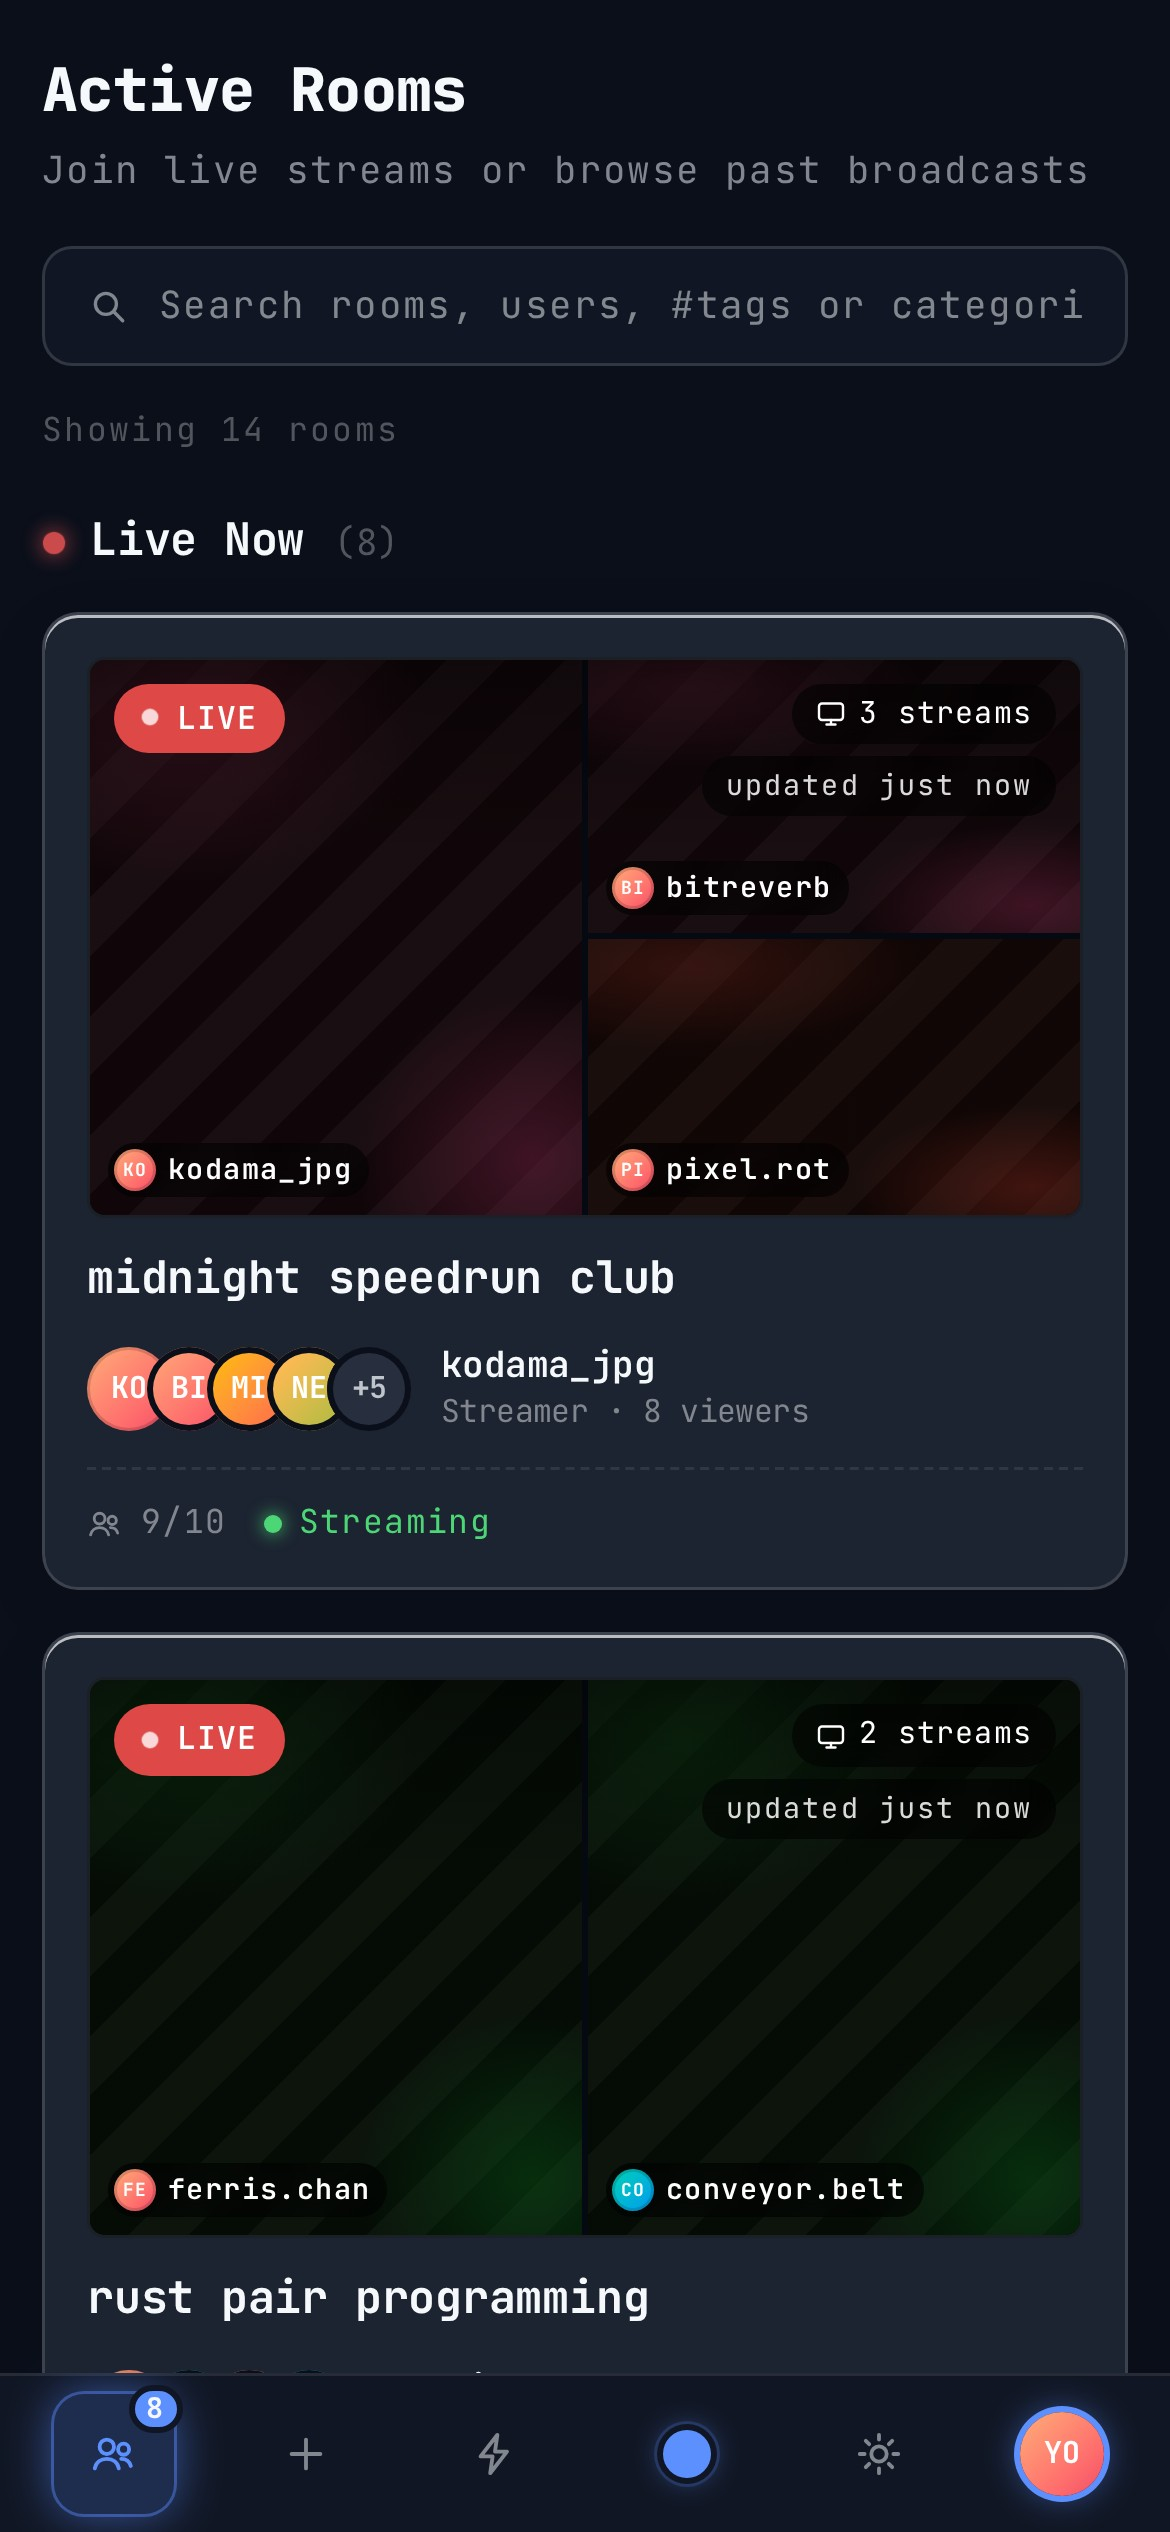
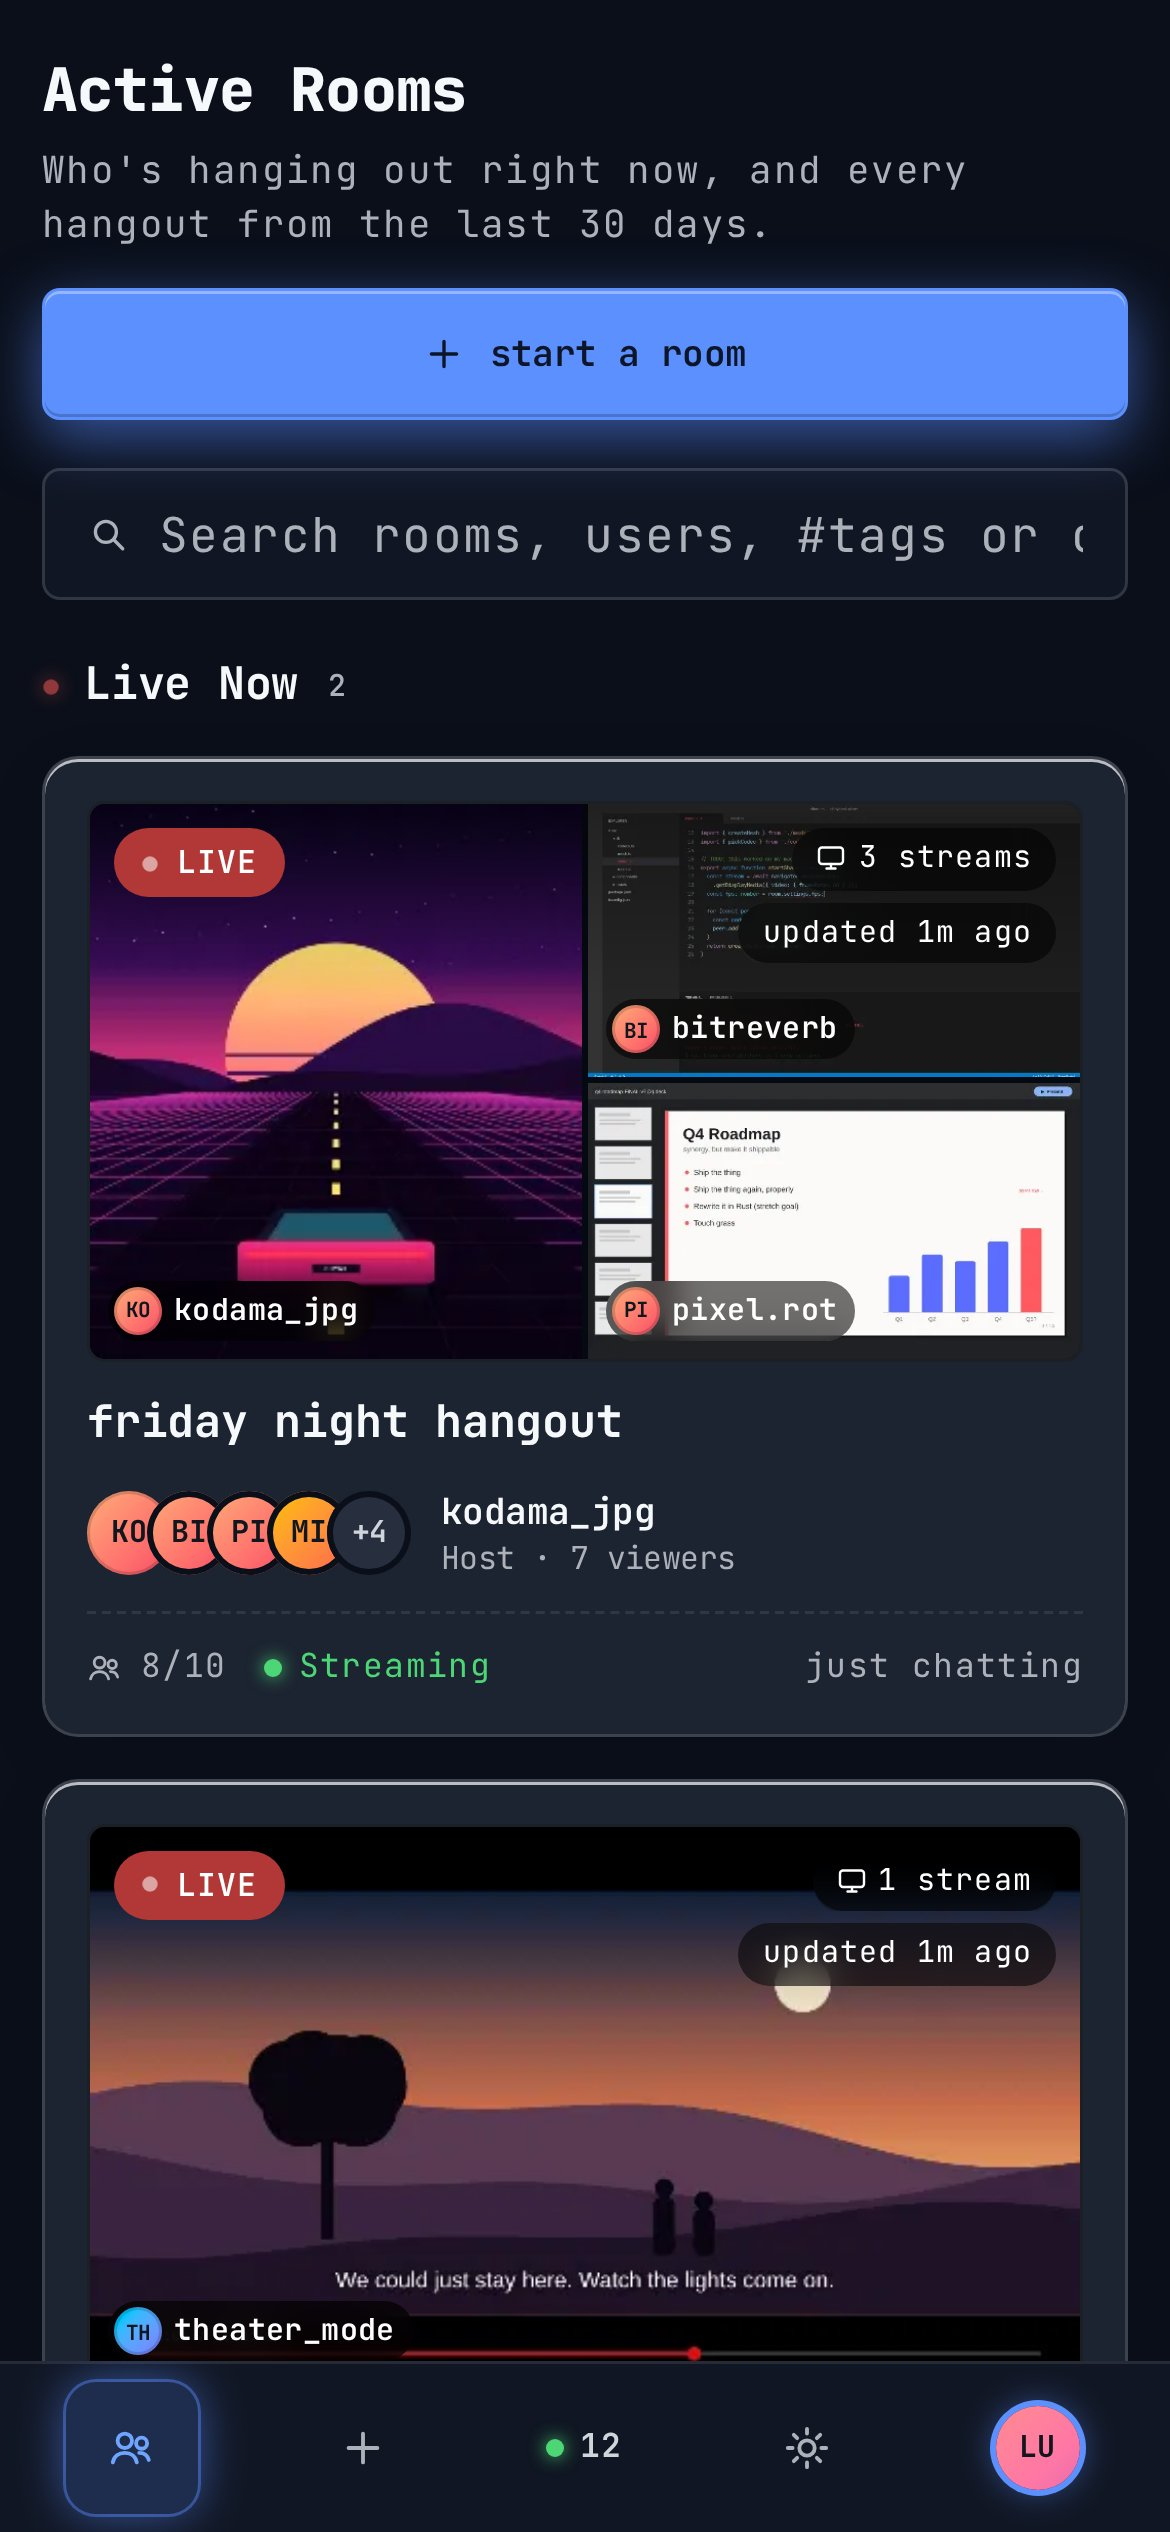
README: real screenshots of the current UI, and text brought up to date
The six screenshots were mockups from before the design port. They are now
captures of the production build, against a seeded in-memory database, with
real rooms, shares, cameras and chat (the screen and webcam content is drawn).

Text: shares go up to 1440p60 (ADR 2, budget-driven steps), not 1080p60; add
the quality button, chat and reactions, appearance settings and link embeds;
share audio depends on the browser; stats mention rooms joined and co-users.

diff --git a/README.md b/README.md
@@ -8,7 +8,7 @@ No downloads. No meeting links that expire. No "can you see my screen?" Sign in 
 
 👉 **[Start a room at cast.bhayanak.net](https://cast.bhayanak.net)**
 
-![A BhayanakCast room with three people sharing their screens, cameras on, and chat alongside](docs/screenshots/room.jpg)
+![A BhayanakCast room with three people sharing their screens (a racing game, a broken build and a slide deck), two cameras on, and chat alongside](docs/screenshots/room.jpg)
 
 ---
 
@@ -18,15 +18,18 @@ No downloads. No meeting links that expire. No "can you see my screen?" Sign in 
 Up to **3 people can share their screens at the same time** in a room of 10. Watch your friend's ranked match next to your own, or compare two edits side by side. You don't have to take turns.
 
 ### ⚡ Sharp and smooth
-Streams run at **up to 1080p60** and adjust to each viewer's connection as it changes. If one friend's Wi-Fi struggles, their picture adapts and everyone else's stays sharp.
+Streams run at **up to 1440p60**, and ultrawide screens keep their shape. Quality adjusts to each viewer's connection as it changes: if one friend's Wi-Fi struggles, their picture adapts and everyone else's stays sharp. Wondering why a stream looks soft? Its quality button tells you whether it's the connection, the streamer's computer, or their upload stretched across everyone watching.
 
 ### 🔊 Sound included
-Share tab or system audio along with your screen, with a separate volume slider for each stream. Turn on your mic and camera whenever you want to join in yourself.
+Share tab or system audio along with your screen (where your browser allows it), with a separate volume slider for each stream. Turn on your mic and camera whenever you want to join in yourself.
 
 ### 🔗 Direct connections
 Streams travel from browser to browser, not through a central video server. That means less delay and fewer places your screen passes through.
 
-![The home page showing live rooms with thumbnail mosaics of each room's streams](docs/screenshots/home.jpg)
+### 💬 Chat that keeps up
+Chat beside the screens, @mention a friend, and fire off quick reactions without typing a word. The feed keeps track of who joined and who started sharing.
+
+![The home page showing live rooms with a mosaic of each room's screens, and past streams below](docs/screenshots/home.jpg)
 
 ### 🔒 Private when you want it
 Make a room private and share an invite link. Everyone who opens it **knocks**, and you decide who comes in. Need to reset access? Generate a new link and the old one stops working.
@@ -41,7 +44,13 @@ The pre-join check lets you pick and preview your mic and camera first. Both sta
 When a room ends, its recap stays up for 30 days. You can see who showed up, how long they stayed, and who was streaming.
 
 ### 📊 Stats worth bragging about
-Your profile keeps track of hours streamed, hours watched, rooms hosted, and your peak viewer count. Favorite the people you hang out with most.
+Your profile keeps track of hours streamed, hours watched, rooms hosted and joined, and your peak viewer count. It also shows the people you've spent the most time with. Favorite the ones you hang out with most.
+
+### 🎨 Make it yours
+Pick light or dark, one of six accent colors, and a mosaic, grid, or spotlight layout for the screens. Your settings follow you to every device.
+
+### 📎 Links that look good in Discord
+Paste a room link into Discord (or Slack, WhatsApp, X…) and it unfurls into a card with the room name, the host, how many are watching, and a peek at the screen. Private rooms stay private: their links show nothing about the room.
 
 <table>
   <tr>
